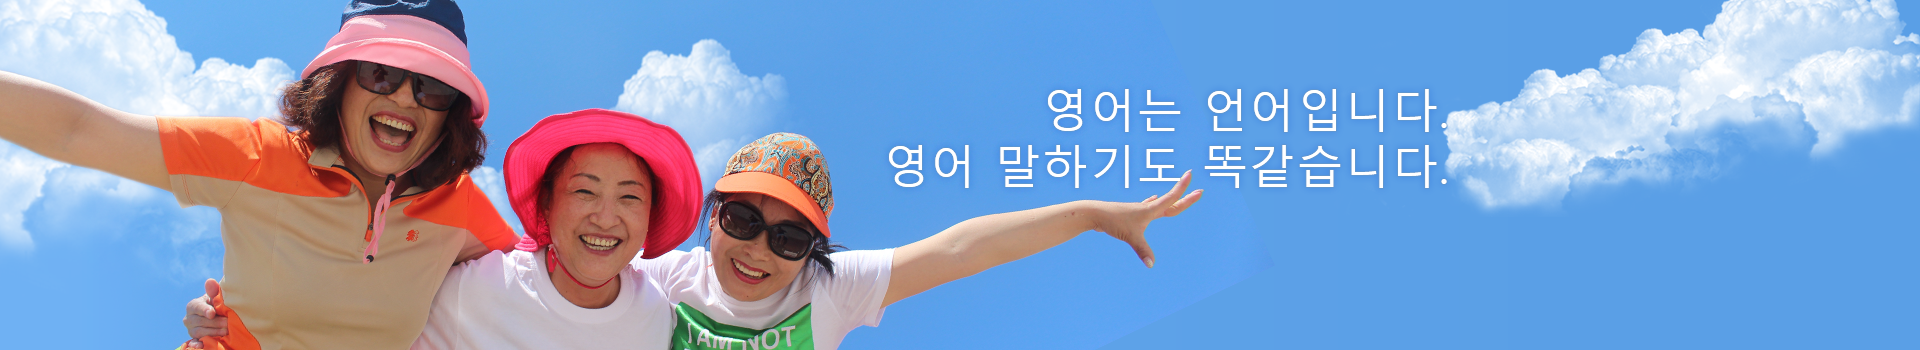
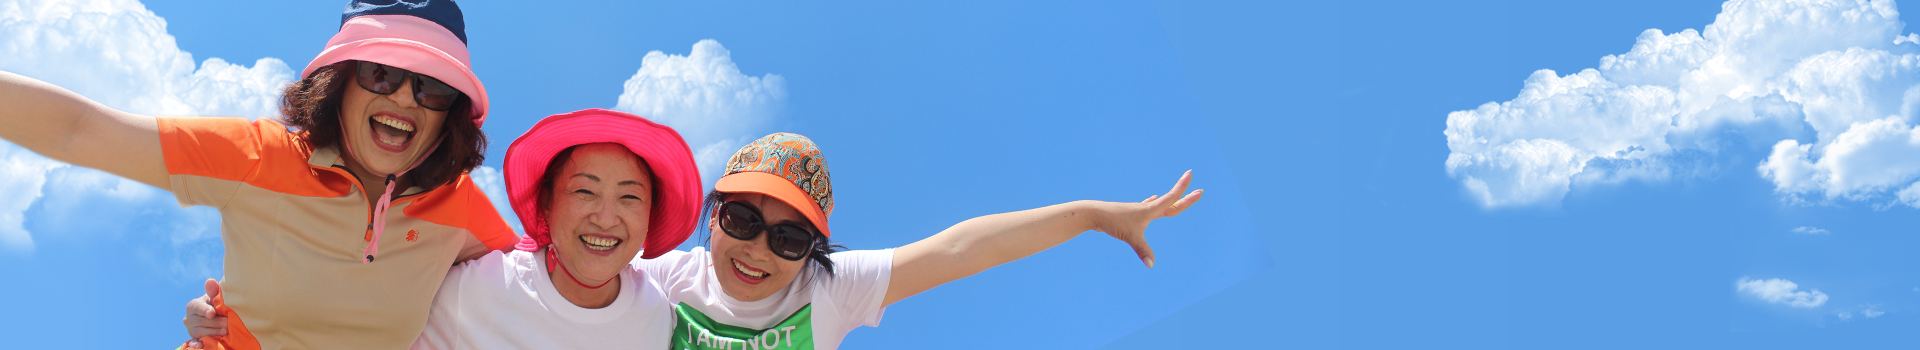
removing unuse images, work on about us page.

diff --git a/css/about-us-content4.css b/css/about-us-content4.css
@@ -2,3 +2,39 @@ section .about-us.content-four {
     min-height: 300px;
     overflow-x: hidden;
 }
+
+section .about-us.content-four h2 {
+    margin: 100px 0 39px;
+    text-align: center;
+    line-height: 45px;
+}
+
+section .about-us.content-four nav {
+    text-align: center;
+    margin-bottom: 100px;
+}
+
+section .about-us.content-four nav > .button {
+    position: relative;
+    display: inline-block;
+    margin:  0 15px;
+    width: 200px;
+    border-radius: 5px;
+}
+
+section .about-us.content-four nav > .button a {
+    display: block;
+    color: #fff;
+    font-size: 18px;
+    padding: 10px;
+}
+
+
+
+section .about-us.content-four nav > .trial.button {
+    background-color: #2e7ac5;
+}
+
+section .about-us.content-four nav > .enroll.button {
+    background-color: #2ecc71;
+}

diff --git a/css/about-us-content2.css b/css/about-us-content2.css
@@ -3,6 +3,32 @@ section .about-us.content-two {
     overflow-x: hidden;
 }
 
+section .about-us.content-two h2 {
+    margin: 100px 20px 80px;
+    font-size: 32px;
+    text-align: center;
+    line-height: 45px;
+}
+
+section .about-us .content.row .cover .picture {
+    margin-bottom: 30px;
+}
+
+section .about-us .content.row .cover .picture img {
+    width: 100%;
+    height: auto;
+}
+
+section .about-us .content.row .cover .desc {
+    text-align: center;
+    padding: 0 10px;
+}
+
 section .about-us .content.row {
-    border: 1px solid blue;
+    margin-bottom: 100px;
+}
+
+section .about-us .content.row > div.col-sm-4 {
+    padding: 0 20px;
+
 }

diff --git a/css/about-us-content1.css b/css/about-us-content1.css
@@ -1,9 +1,16 @@
 section .about-us.content-one {
-    background: url("../img/about_us_banner1.png") #ededed no-repeat;
+    background: url("../img/about_us_banner1.png") no-repeat;
+    background-size: cover;
+    background-position: center center;
     height: 260px;
-    overflow-x: hidden;
 }
 
 section .about-us.content-one h2 {
-
+    position: relative;
+    display: inline-block;
+    color: #FFFFFF;
+    text-align: center;
+    line-height: 45px;
+    margin: 0;
+    padding: 76px 0 0 33px;
 }

diff --git a/css/about-us-content5.css b/css/about-us-content5.css
@@ -1,5 +1,17 @@
 section .about-us.content-five {
     background: url("../img/about_us_banner3.png") #ededed no-repeat;
+    background-size: cover;
+    background-position: center center;
     height: 350px;
-    overflow-x: hidden;
+}
+
+section .about-us.content-five h2 {
+    position: relative;
+    display: inline-block;
+    color: #FFFFFF;
+    font-size: 46px;
+    text-align: center;
+    line-height: 60px;
+    margin: 0;
+    padding: 129px 0 0 4px;
 }

diff --git a/css/about-us-content3.css b/css/about-us-content3.css
@@ -1,5 +1,17 @@
 section .about-us.content-three {
     background: url("../img/about_us_banner2.png") #ededed no-repeat;
+    background-size: cover;
+    background-position: center center;
     height: 350px;
-    overflow-x: hidden;
+}
+
+section .about-us.content-three h2 {
+    float: right;
+    position: relative;
+    font-size: 46px;
+    color: #FFFFFF;
+    text-align: right;
+    line-height: 50px;
+    margin: 0;
+    padding: 75px 34px 0 0;
 }

diff --git a/part/about-us-content2.php b/part/about-us-content2.php
@@ -4,30 +4,35 @@ wp_enqueue_style('about-us-content2', td() . '/css/about-us-content2.css');
 <section class="about-us content-two">
     <div>
         <h2>저희는 화상영어 학습을 위해서 필리핀 현지에서 2006년 부터 2016년 현재까지 직접 화상 영어 콜센터를 운영하고 있습니다.</h2>
-
         <div class="content row">
             <div class="col-sm-4">
-                <div class="picture">
-
-                </div>
-                <div class="desc">
-                    교사 역 깔끔하게 개인 정보 보호에 대한 높은 벽에 나란히 위치.
-                </div>
-            </div>
-            <div class="col-sm-4">
-                <div class="picture">
-
-                </div>
-                <div class="desc">
-                    교사의 역 내부에는 중단하지 않습니다.
+                <div class="cover">
+                    <div class="picture">
+                        <img src="<?php img_e() ?>about_us_content3_img1.png">
+                    </div>
+                    <div class="desc">
+                        교사 역 깔끔하게 개인 정보 보호에 대한 높은 벽에 나란히 위치.
+                    </div>
                 </div>
             </div>
             <div class="col-sm-4">
-                <div class="picture">
-
+                <div class="cover">
+                    <div class="picture">
+                        <img src="<?php img_e() ?>about_us_content3_img2.png">
+                    </div>
+                    <div class="desc">
+                        교사의 역 내부에는 중단하지 않습니다.
+                    </div>
                 </div>
-                <div class="desc">
-                    상수 통신은 새로운 언어를 학습의 핵심입니다.
+            </div>
+            <div class="col-sm-4">
+                <div class="cover">
+                    <div class="picture">
+                        <img src="<?php img_e() ?>about_us_content3_img3.png">
+                    </div>
+                    <div class="desc">
+                        상수 통신은 새로운 언어를 학습의 핵심입니다.
+                    </div>
                 </div>
             </div>
         </div>

diff --git a/part/about-us-content1.php b/part/about-us-content1.php
@@ -3,6 +3,8 @@ wp_enqueue_style('about-us-content1', td() . '/css/about-us-content1.css');
 ?>
 <section class="about-us content-one">
     <div>
-        <h2>우리는 영어 학습의 두려움없이 학생들이 배우고 즐길 수있는 공간을 제공합니다.</h2>
+        <h2>우리는 영어 학습의 두려움없이<br>
+            학생들이 배우고 즐길 수있는<br>
+            공간을 제공합니다.</h2>
     </div>
 </section>

diff --git a/part/about-us-content4.php b/part/about-us-content4.php
@@ -3,6 +3,14 @@ wp_enqueue_style('about-us-content4', td() . '/css/about-us-content4.css');
 ?>
 <section class="about-us content-four">
     <div>
-        <h2>ABOUT US 4</h2>
+        <h2>Register for a free trial or enroll now</h2>
+        <nav>
+        <div class="trial button">
+            <a>Start Trial</a>
+        </div>
+        <div class="enroll button">
+            <a>Enroll Now</a>
+        </div>
+        </nav>
     </div>
 </section>

diff --git a/part/about-us-content5.php b/part/about-us-content5.php
@@ -3,6 +3,8 @@ wp_enqueue_style('about-us-content5', td() . '/css/about-us-content5.css');
 ?>
 <section class="about-us content-five">
     <div>
-        <h2>원어민강사와의 거리감을 느낄 수 없는 화질과 음질을 제공합니다.</h2>
+        <h2>원어민강사와의 거리감을 느낄 수
+            <br>
+            없는 화질과 음질을 제공합니다.</h2>
     </div>
 </section>

diff --git a/part/about-us-content3.php b/part/about-us-content3.php
@@ -3,7 +3,9 @@ wp_enqueue_style('about-us-content3', td() . '/css/about-us-content3.css');
 ?>
 <section class="about-us content-three">
     <div>
-        <h2>영어는 언어입니다.
-            영어 말하기도 똑같습니다.</h2>
+        <h2>
+            영어는 언어입니다.<br>
+            영어 말하기도 똑같습니다.
+        </h2>
     </div>
 </section>
